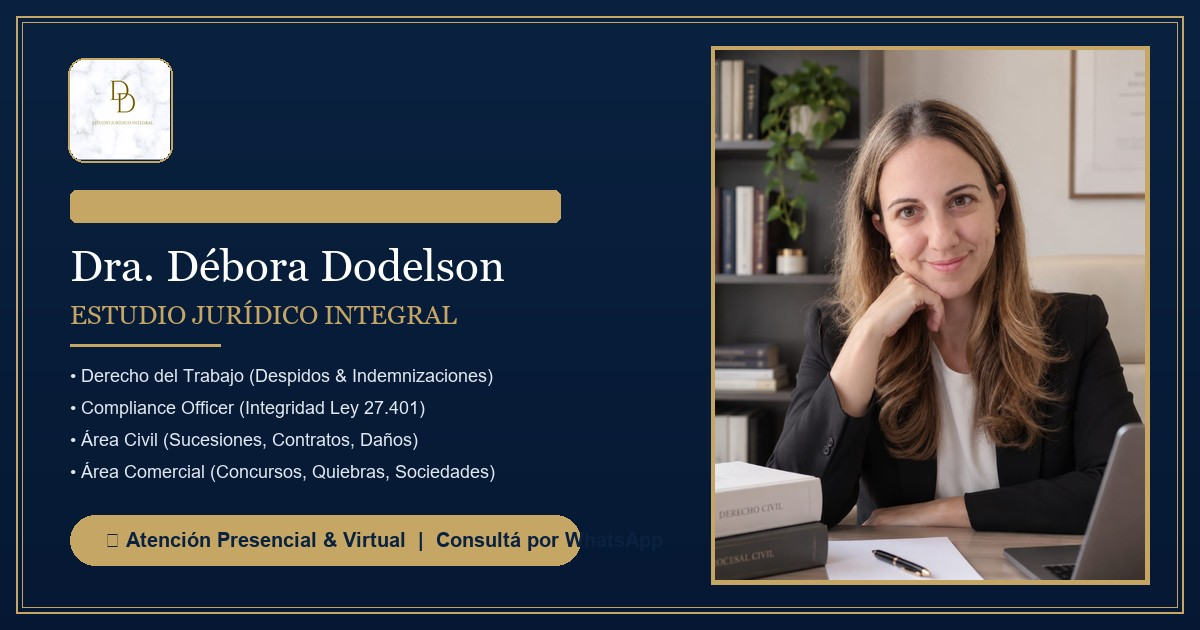
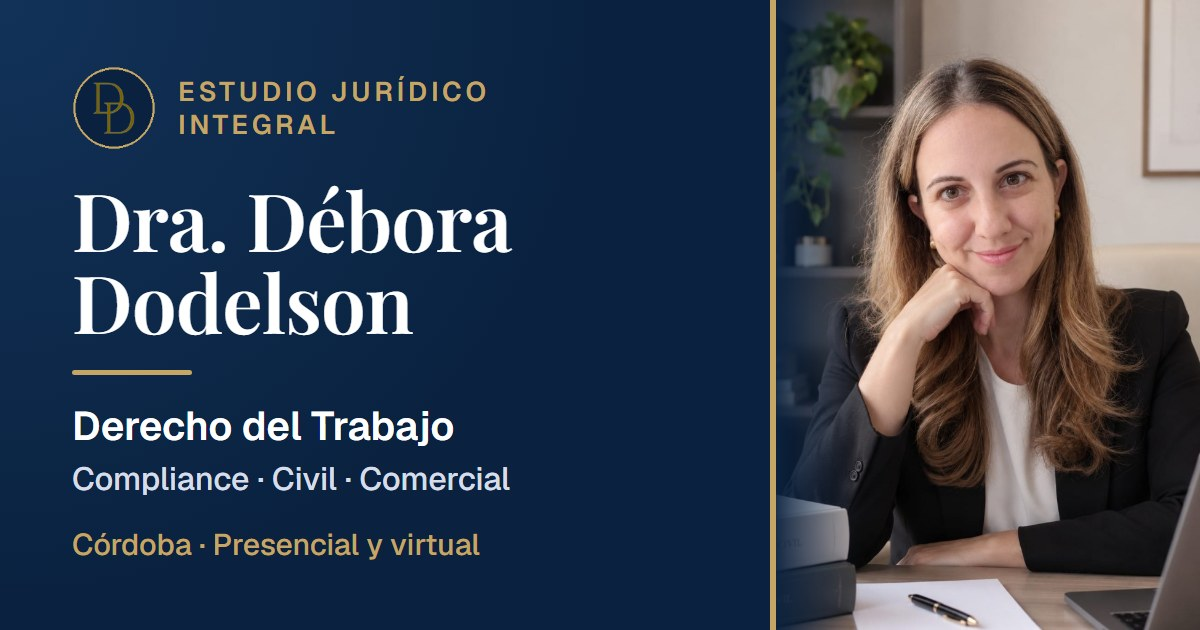
fix: redesign Open Graph image for legible link previews and point metadata to estudiododelson.com.ar

diff --git a/index.html b/index.html
@@ -12,7 +12,7 @@
   <meta name="keywords" content="abogada laboralista cordoba, derecho del trabajo cordoba, despidos e indemnizaciones, compliance officer cordoba, debora dodelson abogada, estudio juridico integral cordoba, asesoramiento laboral empresas">
   <meta name="author" content="Estudio Jurídico Dodelson">
   <meta name="robots" content="index, follow">
-  <link rel="canonical" href="https://cristoabl.github.io/abogadebo/">
+  <link rel="canonical" href="https://estudiododelson.com.ar/">
 
   <!-- Favicon & Touch Icons -->
   <link rel="icon" type="image/x-icon" href="favicon.ico">
@@ -23,11 +23,11 @@
   <!-- Open Graph / WhatsApp / Facebook Preview -->
   <meta property="og:type" content="website">
   <meta property="og:site_name" content="Estudio Jurídico Dodelson">
-  <meta property="og:url" content="https://cristoabl.github.io/abogadebo/">
+  <meta property="og:url" content="https://estudiododelson.com.ar/">
   <meta property="og:title" content="Dra. Débora Dodelson | Estudio Jurídico Integral">
-  <meta property="og:description" content="Especialista en Derecho del Trabajo, Compliance, Civil y Comercial. Atención presencial y virtual en Córdoba y todo el país. M.P. 1-38612. Consultá por WhatsApp.">
-  <meta property="og:image" content="https://cristoabl.github.io/abogadebo/assets/images/og-image.jpg">
-  <meta property="og:image:secure_url" content="https://cristoabl.github.io/abogadebo/assets/images/og-image.jpg">
+  <meta property="og:description" content="Derecho del Trabajo, Compliance, Civil y Comercial. Atención presencial y virtual en Córdoba.">
+  <meta property="og:image" content="https://estudiododelson.com.ar/assets/images/og-image.jpg?v=2">
+  <meta property="og:image:secure_url" content="https://estudiododelson.com.ar/assets/images/og-image.jpg?v=2">
   <meta property="og:image:type" content="image/jpeg">
   <meta property="og:image:width" content="1200">
   <meta property="og:image:height" content="630">
@@ -36,10 +36,10 @@
 
   <!-- Twitter Meta -->
   <meta name="twitter:card" content="summary_large_image">
-  <meta name="twitter:url" content="https://cristoabl.github.io/abogadebo/">
+  <meta name="twitter:url" content="https://estudiododelson.com.ar/">
   <meta name="twitter:title" content="Dra. Débora Dodelson | Estudio Jurídico Integral">
-  <meta name="twitter:description" content="Especialista en Derecho del Trabajo, Compliance, Civil y Comercial. M.P. 1-38612. Consultá por WhatsApp.">
-  <meta name="twitter:image" content="https://cristoabl.github.io/abogadebo/assets/images/og-image.jpg">
+  <meta name="twitter:description" content="Derecho del Trabajo, Compliance, Civil y Comercial. Atención presencial y virtual en Córdoba.">
+  <meta name="twitter:image" content="https://estudiododelson.com.ar/assets/images/og-image.jpg?v=2">
 
   <!-- Google Fonts: Playfair Display + Inter -->
   <link rel="preconnect" href="https://fonts.googleapis.com">
@@ -55,8 +55,8 @@
     "@context": "https://schema.org",
     "@type": "LegalService",
     "name": "Estudio Jurídico Integral - Dra. Débora Dodelson",
-    "image": "https://cristoabl.github.io/abogadebo/assets/images/debora-dodelson.jpg",
-    "url": "https://cristoabl.github.io/abogadebo/",
+    "image": "https://estudiododelson.com.ar/assets/images/debora-dodelson.jpg",
+    "url": "https://estudiododelson.com.ar/",
     "telephone": "+5493518587187",
     "email": "abog.dodelson.debora@gmail.com",
     "priceRange": "$$",

diff --git a/deploy/og/og-template.html b/deploy/og/og-template.html
@@ -1,0 +1,78 @@
+<!DOCTYPE html>
+<html lang="es">
+<head>
+<meta charset="UTF-8">
+<!-- Plantilla de la imagen Open Graph (1200x630). Se renderiza con deploy/og/render.sh -->
+<link href="https://fonts.googleapis.com/css2?family=Geist:wght@500;600&family=Playfair+Display:wght@600&display=block" rel="stylesheet">
+<style>
+  * { margin: 0; padding: 0; box-sizing: border-box; }
+  html, body { width: 1200px; height: 630px; overflow: hidden; }
+  body {
+    display: flex;
+    background: #0A2240;
+    font-family: 'Geist', sans-serif;
+    color: #fff;
+  }
+  .text {
+    flex: 1;
+    padding: 48px 40px 48px 72px;
+    display: flex;
+    flex-direction: column;
+    justify-content: center;
+    background: radial-gradient(circle at 0% 0%, #123258 0%, #0A2240 60%);
+  }
+  .brand { display: flex; align-items: center; gap: 22px; margin-bottom: 28px; }
+  .brand img { width: 84px; height: 84px; }
+  .brand span {
+    color: #C6A664;
+    font-size: 27px;
+    font-weight: 600;
+    letter-spacing: 0.14em;
+    text-transform: uppercase;
+    line-height: 1.25;
+  }
+  h1 {
+    font-family: 'Playfair Display', serif;
+    font-weight: 600;
+    font-size: 80px;
+    line-height: 1.02;
+    letter-spacing: -0.01em;
+  }
+  .rule { flex-shrink: 0; width: 120px; height: 5px; background: #C6A664; margin: 28px 0 26px; border-radius: 3px; }
+  .areas { font-size: 40px; font-weight: 600; line-height: 1.25; }
+  .areas small { display: block; font-size: 32px; font-weight: 500; color: #D6DDE8; margin-top: 8px; }
+  .place { margin-top: 26px; font-size: 30px; font-weight: 500; color: #C6A664; }
+  .photo {
+    width: 430px;
+    position: relative;
+    background: url('../../assets/images/debora-dodelson.jpg') 58% 18% / cover no-repeat;
+  }
+  .photo::before {
+    content: '';
+    position: absolute; inset: 0 auto 0 0; width: 90px;
+    background: linear-gradient(90deg, #0A2240, rgba(10, 34, 64, 0));
+  }
+  .photo::after {
+    content: '';
+    position: absolute; inset: 0 auto 0 0; width: 6px;
+    background: #C6A664;
+  }
+</style>
+</head>
+<body>
+  <div class="text">
+    <div class="brand">
+      <img src="../../assets/images/isotipo-badge.png" alt="">
+      <span>Estudio Jurídico<br>Integral</span>
+    </div>
+    <h1>Dra. Débora<br>Dodelson</h1>
+    <div class="rule"></div>
+    <div class="areas">
+      Derecho del Trabajo
+      <small>Compliance · Civil · Comercial</small>
+    </div>
+    <div class="place">Córdoba · Presencial y virtual</div>
+  </div>
+  <div class="photo"></div>
+</body>
+</html>
